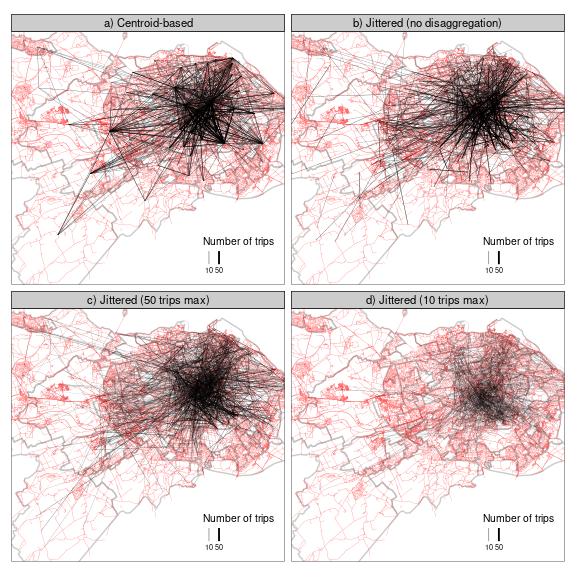
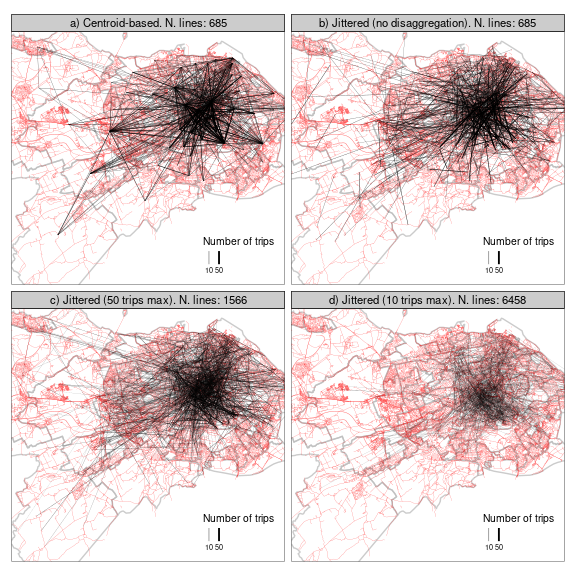
Complete paper (pending feedback/tweaks)

diff --git a/README.md b/README.md
@@ -103,17 +103,11 @@ locations.](README_files/figure-gfm/overview-1.png)
 
 To test the performance of different parameters and settings for the
 OD-to-route-network conversion process, we focussed only on cycling
-trips as these were measured in the counter dataset mentioned. The
-following parameters were adjusted to explore their importance, in
-roughly descending order of frequency of mentions in the literature:
-
-1.  The routing profile used, which can ‘prefer’ differet route types,
-    resulting in ‘quiet’ to ‘fast’ networks (Desjardins et al. 2021)
-2.  The level of disaggregation, ranging from none to full
-    disaggregation (on desire line and route per trip) (Jafari et al.
-    2015)
-3.  Jittering strategy used to sample origin and destination points
-    within zones (Lovelace, Félix, and Carlino 2022)
+trips as these were measured in the counter dataset mentioned.
+Furthermore, we focussed on only the desire lines representing 4 or more
+cycle trips, to reduce the computational requirements of the study in
+the time available: this reduced the number of desire lines from over
+10,000 to 685.
 
 <!-- To run algorithm you need a minimum of three inputs, examples of which are provided in the `data/` folder of this repo: -->
 <!-- 1. A .csv file containing OD data with two columns containing zone IDs (specified with  `--origin-key=geo_code1 --destination-key=geo_code2` by default) and other columns representing trip counts: -->
@@ -170,9 +164,25 @@ odjitter --od-csv-path od_iz_ed.csv \
 
 # 3 Findings
 
-Figure <a href="#fig:output1">3.1</a> shows the output of the `jitter`
-commands above visually, with/without jittering and with different
-values set for `max-per-od`.
+Figure <a href="#fig:output1">3.1</a> shows the output of the jittering
+process described in (Lovelace, Félix, and Carlino 2022) and implemented
+with the `jitter` commands above visually. The facets a to d show the
+impacts of jittering with different values set for the maximum number of
+trips allowable per ‘jittered desire line’, and implemented with the
+argument `max-per-od` in the previous section. It is clear that even
+jittering without disaggregation has a substantial impact: Figure
+<a href="#fig:output1">3.1</a> b) represents the same number of desire
+lines but with widely distributed start and end points.
+
+The maps in Figure <a href="#fig:output1">3.1</a> c) and d) show the
+impact of reducing the threshold for the number of trips allowed:
+although every facet represents the same number of travel, the trips are
+represented with around double the number of desire lines in c) and
+triple the number of desire lines in d) compared with the original OD
+dataset. To assess whether this process of disaggregation/jittering adds
+value to the OD data, we generated results at the route network level
+and evaluated them with reference to the cycle counter dataset outlined
+in the previous section.
 
 ![Figure 3.1: Results at the desire line level. The top left image shows
 unjittered results with origins and destinations going to zone centroids
@@ -186,19 +196,72 @@ result result with a maximum number of trips per jittered OD pair of
 <!-- Todo: present results comparing flow from counter data with route network results -->
 
 The route network level results associated with the same OD pairs are
-shown in Figure <a href="#fig:rnets">3.2</a>.
+shown in Figure <a href="#fig:rnets">3.2</a>. The results suggest that
+jittering improve network accuracy compared with a ground truth dataset,
+even without first disaggregating the input OD datasets. A notable
+finding, albeit from a small ‘ground truth’ dataset, is that jittering
+can improve route network resutls *at no no extra computational cost* in
+terms of routing, often the most time-consuming aspect of transport
+modelling workflows: networks shown in Figure
+<a href="#fig:rnets">3.2</a> a) and b) both result from calculating
+routes associated with 685 desire lines, but b) shows a more diffuse
+network. Furthermore, the results suggest that disaggregation is worth
+extra computational costs associated with routing for more desire lines,
+with R-Squared results quantifying the relationship between observed
+daily counts and the level of flow in the nearest segment on route
+improving with further disaggregation.
 
 ![Figure 3.2: Route network
 results.](README_files/figure-gfm/rnets-1.png)
 
 # 4 Discussion
 
+The results presented above support the hypothesis that ‘jittering’
+techniques outlined in (Lovelace, Félix, and Carlino 2022) can add value
+to OD data. The process of randomising start and end points to vertices
+on a transport network, combined with variable levels of disaggregation
+— the process of splitting single OD pairs into multiple desire lines
+based on a threshold value for the maximum number of trips that can be
+represented in a single jittered desire line — clearly leads to more
+diffuse networks. The progressive improvements in network-counter fit
+are encouraging, although we note that the best fit implies that only 6%
+of the variability on daily average count datasets can be explained by
+route network level results. Thus, the results should be seen more as a
+proof-of-concept highlighting the *potential* value of jittering when
+converting OD datasets to route networks, rather than definitive
+findings.
+
 The approach is not without limitations. Despite the variability of
 places where the automatic bicycle counters are located, they are only
-40 in number, which were used to test the method. This validation step
-would benefit from having more cycling counters. It should be noted that
-the OD data in use is from 2011, and that the home work travel patterns
-might not be up to date. <!-- Todo: add limitations -->
+40 in number, which were used to test the method. It should also be
+noted that the OD data is from 2011, while the counter datasets are from
+10 years later and represents cycle trips for all purposes, not just
+travel to work. These limitations help explain the poor counter-network
+results and, more importantly, suggest ways to gain further
+understanding of ways to improve network generation processes. Promising
+avenues of future research could include:
+
+1.  Exploring the impact of other parameters in the OD to route network
+    generation process, including:
+2.  The routing profile used, which can ‘prefer’ different route types,
+    resulting in ‘quiet’ to ‘fast’ networks (Desjardins et al. 2021)
+3.  Further disaggregation levels, including full disaggregation (one
+    desire line and route per trip) and generation of ‘centroid
+    connectors’ (Jafari et al. 2015; Friedrich and Galster 2009)
+4.  Testing different jittering strategies used to sample origin and
+    destination points within zones, such as using open building
+    datasets to generate start and end points (Lovelace, Félix, and
+    Carlino 2022)
+5.  Repeating the tests outlined in this paper but with larger and
+    richer input datasets
+
+We believe that pursuing such lines of inquiry should be a priority for
+sustainable transport planning. New insights could lead to improved
+evidence on which to develop investment strategies, such as route
+networks presenting estimates of baseline levels, and potential uptake,
+of sustainable transport modes, improving on route network results
+derived from ‘centroid-based’ desire lines (e.g. Goodman et al. 2019;
+Lovelace et al. 2017; Biba, Curtin, and Manca 2010).[^3]
 
 # 5 Acknowledgements
 
@@ -242,6 +305,15 @@ proponent of open source code and the Rust programming language.
 
 <div id="refs" class="references csl-bib-body hanging-indent">
 
+<div id="ref-biba_new_2010" class="csl-entry">
+
+Biba, S., K. M. Curtin, and G. Manca. 2010. “A New Method for
+Determining the Population with Walking Access to Transit.”
+*International Journal of Geographical Information Science* 24 (3):
+347–64. <https://doi.org/10.1080/13658810802646679>.
+
+</div>
+
 <div id="ref-calabrese_estimating_2011" class="csl-entry">
 
 Calabrese, Francesco, Giusy Di Lorenzo, Liang Liu, and Carlo Ratti.
@@ -269,6 +341,25 @@ Ontario: Fastest, Quietest, or Balanced Routes?” *Transportation*, June.
 
 </div>
 
+<div id="ref-friedrich_methods_2009" class="csl-entry">
+
+Friedrich, Markus, and Manuel Galster. 2009. “Methods for Generating
+Connectors in Transport Planning Models.” *Transportation Research
+Record* 2132 (1): 133–42. <https://doi.org/10.3141/2132-15>.
+
+</div>
+
+<div id="ref-goodman_scenarios_2019" class="csl-entry">
+
+Goodman, Anna, Ilan Fridman Rojas, James Woodcock, Rachel Aldred,
+Nikolai Berkoff, Malcolm Morgan, Ali Abbas, and Robin Lovelace. 2019.
+“Scenarios of Cycling to School in England, and Associated Health and
+Carbon Impacts: Application of the ‘Propensity to Cycle Tool’.” *Journal
+of Transport & Health* 12 (March): 263–78.
+<https://doi.org/10.1016/j.jth.2019.01.008>.
+
+</div>
+
 <div id="ref-jafari_investigation_2015" class="csl-entry">
 
 Jafari, Ehsan, Mason D. Gemar, Natalia Ruiz Juri, and Jennifer Duthie.
@@ -285,6 +376,15 @@ Lovelace, Robin, Rosa Félix, and Dustin Carlino. 2022. “Jittering: A
 Computationally Efficient Method for Generating Realistic Route Networks
 from Origin-Destination Data,” January.
 <https://doi.org/10.31219/osf.io/qux6g>.
+
+</div>
+
+<div id="ref-lovelace_propensity_2017" class="csl-entry">
+
+Lovelace, Robin, Anna Goodman, Rachel Aldred, Nikolai Berkoff, Ali
+Abbas, and James Woodcock. 2017. “The Propensity to Cycle Tool: An Open
+Source Online System for Sustainable Transport Planning.” *Journal of
+Transport and Land Use* 10 (1). <https://doi.org/10.5198/jtlu.2016.862>.
 
 </div>
 
@@ -329,3 +429,9 @@ Origin-Destination Data Visualization.” *Computer Graphics Forum* 40
     stage trips in one direction) is only 0.3 MB, a compact way of
     storing information on travel behaviour compared with alternatives
     such as large GPS datasets.
+
+[^3]:  See the Technical Note produced by consultancy PJA for
+    Staffordshire’s Local Cycling and Walking Infrastructure Plan for a
+    good example o the use of centroid-based desire lines for routing in
+    practice:
+    <https://www.staffordshire.gov.uk/Transport/transportplanning/documents/Appendix-B-PJA-GIS-Analysis-Technical-Note.pdf>
